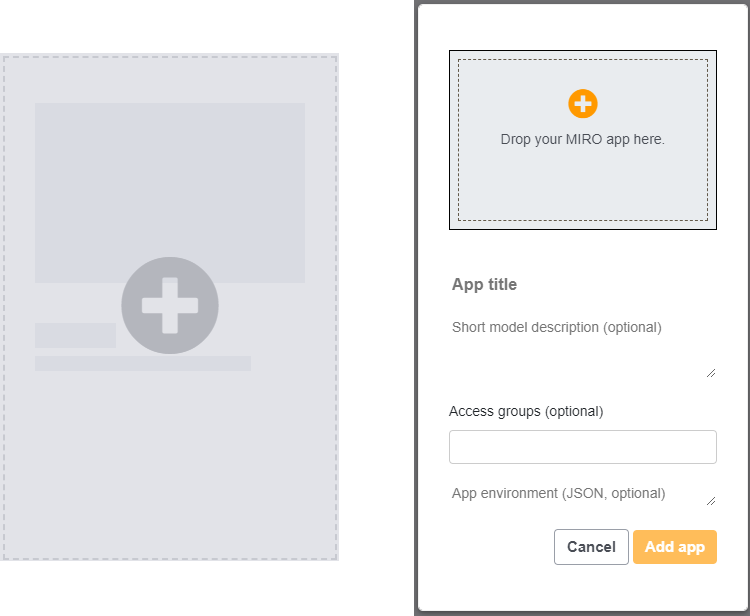
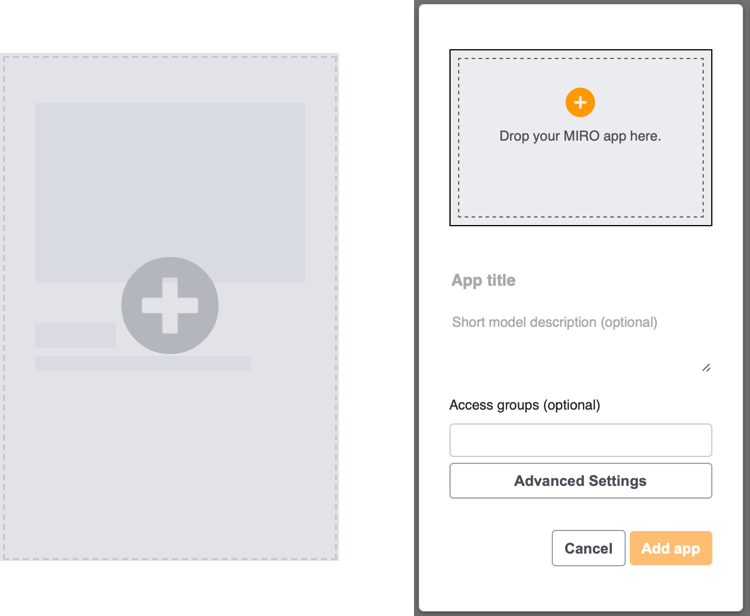
[Doc] Document new advanced setting dialog
Also document default scenario permissions and add release notes

diff --git a/doc/server_administration.html b/doc/server_administration.html
@@ -322,22 +322,37 @@
                         >.
                       </li>
                       <li>
-                        App environment (JSON, optional):<br />
+                        Advanced Settings (optional):<br />
                         <a id="app-environment" class="anchor"></a>
                         <p>
-                          Here you can define a customized environment to be
-                          used by the MIRO app in JSON syntax. This can be
-                          useful/mandatory, for example, if you want to run
-                          custom analysis scripts that require external
-                          software not in the PATH or to store credentials to
-                          be used by remote data exchange modules. A detailed
-                          description including an example can be found in the
-                          <a href="./deployment.html#custom-environments"
-                            >MIRO Desktop documentation</a
-                          >. The only difference to the local version is that
-                          with MIRO Server you can specify a separate
-                          environment for each app, while with MIRO Desktop
-                          this applies globally to all apps.
+                          Clicking this button opens a dialog where you can
+                          configure advanced options, such as environment
+                          variables or default scenario permissions.
+                          Environment variables are especially useful if your
+                          app includes custom R code, such as
+                          <a
+                            href="configuration_json_only.html#custom-import-export"
+                            >custom data connectors</a
+                          >
+                          or
+                          <a
+                            href="./configuration_advanced.html#custom-renderers"
+                            >custom renderers</a
+                          >, that require secrets like API keys to connect to
+                          external systems.
+                        </p>
+                        <p>
+                          Default scenario permissions specify which users and
+                          groups are pre-filled when a new scenario is saved.
+                          Users can review and modify these permissions before
+                          finalizing the save.
+                        </p>
+                        <p>
+                          The scenario owner is always included automatically,
+                          in addition to any users or groups specified here. If
+                          no default users or groups are set (the fields are
+                          left empty), only the scenario owner will have read,
+                          write, and execute permissions.
                         </p>
                         <p>
                           <b>Language</b>: While the
@@ -350,8 +365,7 @@
                           one MIRO Server instance. The environment variable
                           <kbd>MIRO_LANG</kbd> specifies the language.
                           Available languages currently are English ('en'),
-                          Chinese ('cn') and German ('de'). Example:
-                          <kbd>{"MIRO_LANG":"de"}</kbd>.
+                          Chinese ('cn') and German ('de')..
                         </p>
                         <div class="section-block">
                           <img

diff --git a/doc/release.html b/doc/release.html
@@ -109,6 +109,14 @@
                         that walks you from creating the GAMSPy model to
                         building a sophisticated application.
                       </li>
+                      <li>
+                        MIRO Server: Improve user
+                        <a href="server_administration.html#app-environment"
+                          >interface for entering environment variables</a
+                        >
+                        as well as support setting default scenario
+                        permissions.
+                      </li>
                     </ul>
                   </div>
                 </section>

diff --git a/doc/deployment.html b/doc/deployment.html
@@ -344,7 +344,7 @@ inc/inc2.inc
                       >, you may need to use secrets like API keys.
                       Additionally, you may want to give administrators the
                       ability to customize certain parts of your app when they
-                      add it to the gallery. In both cases, environment
+                      add it to the library. In both cases, environment
                       variables can be very useful.
                     </p>
                     <p>
